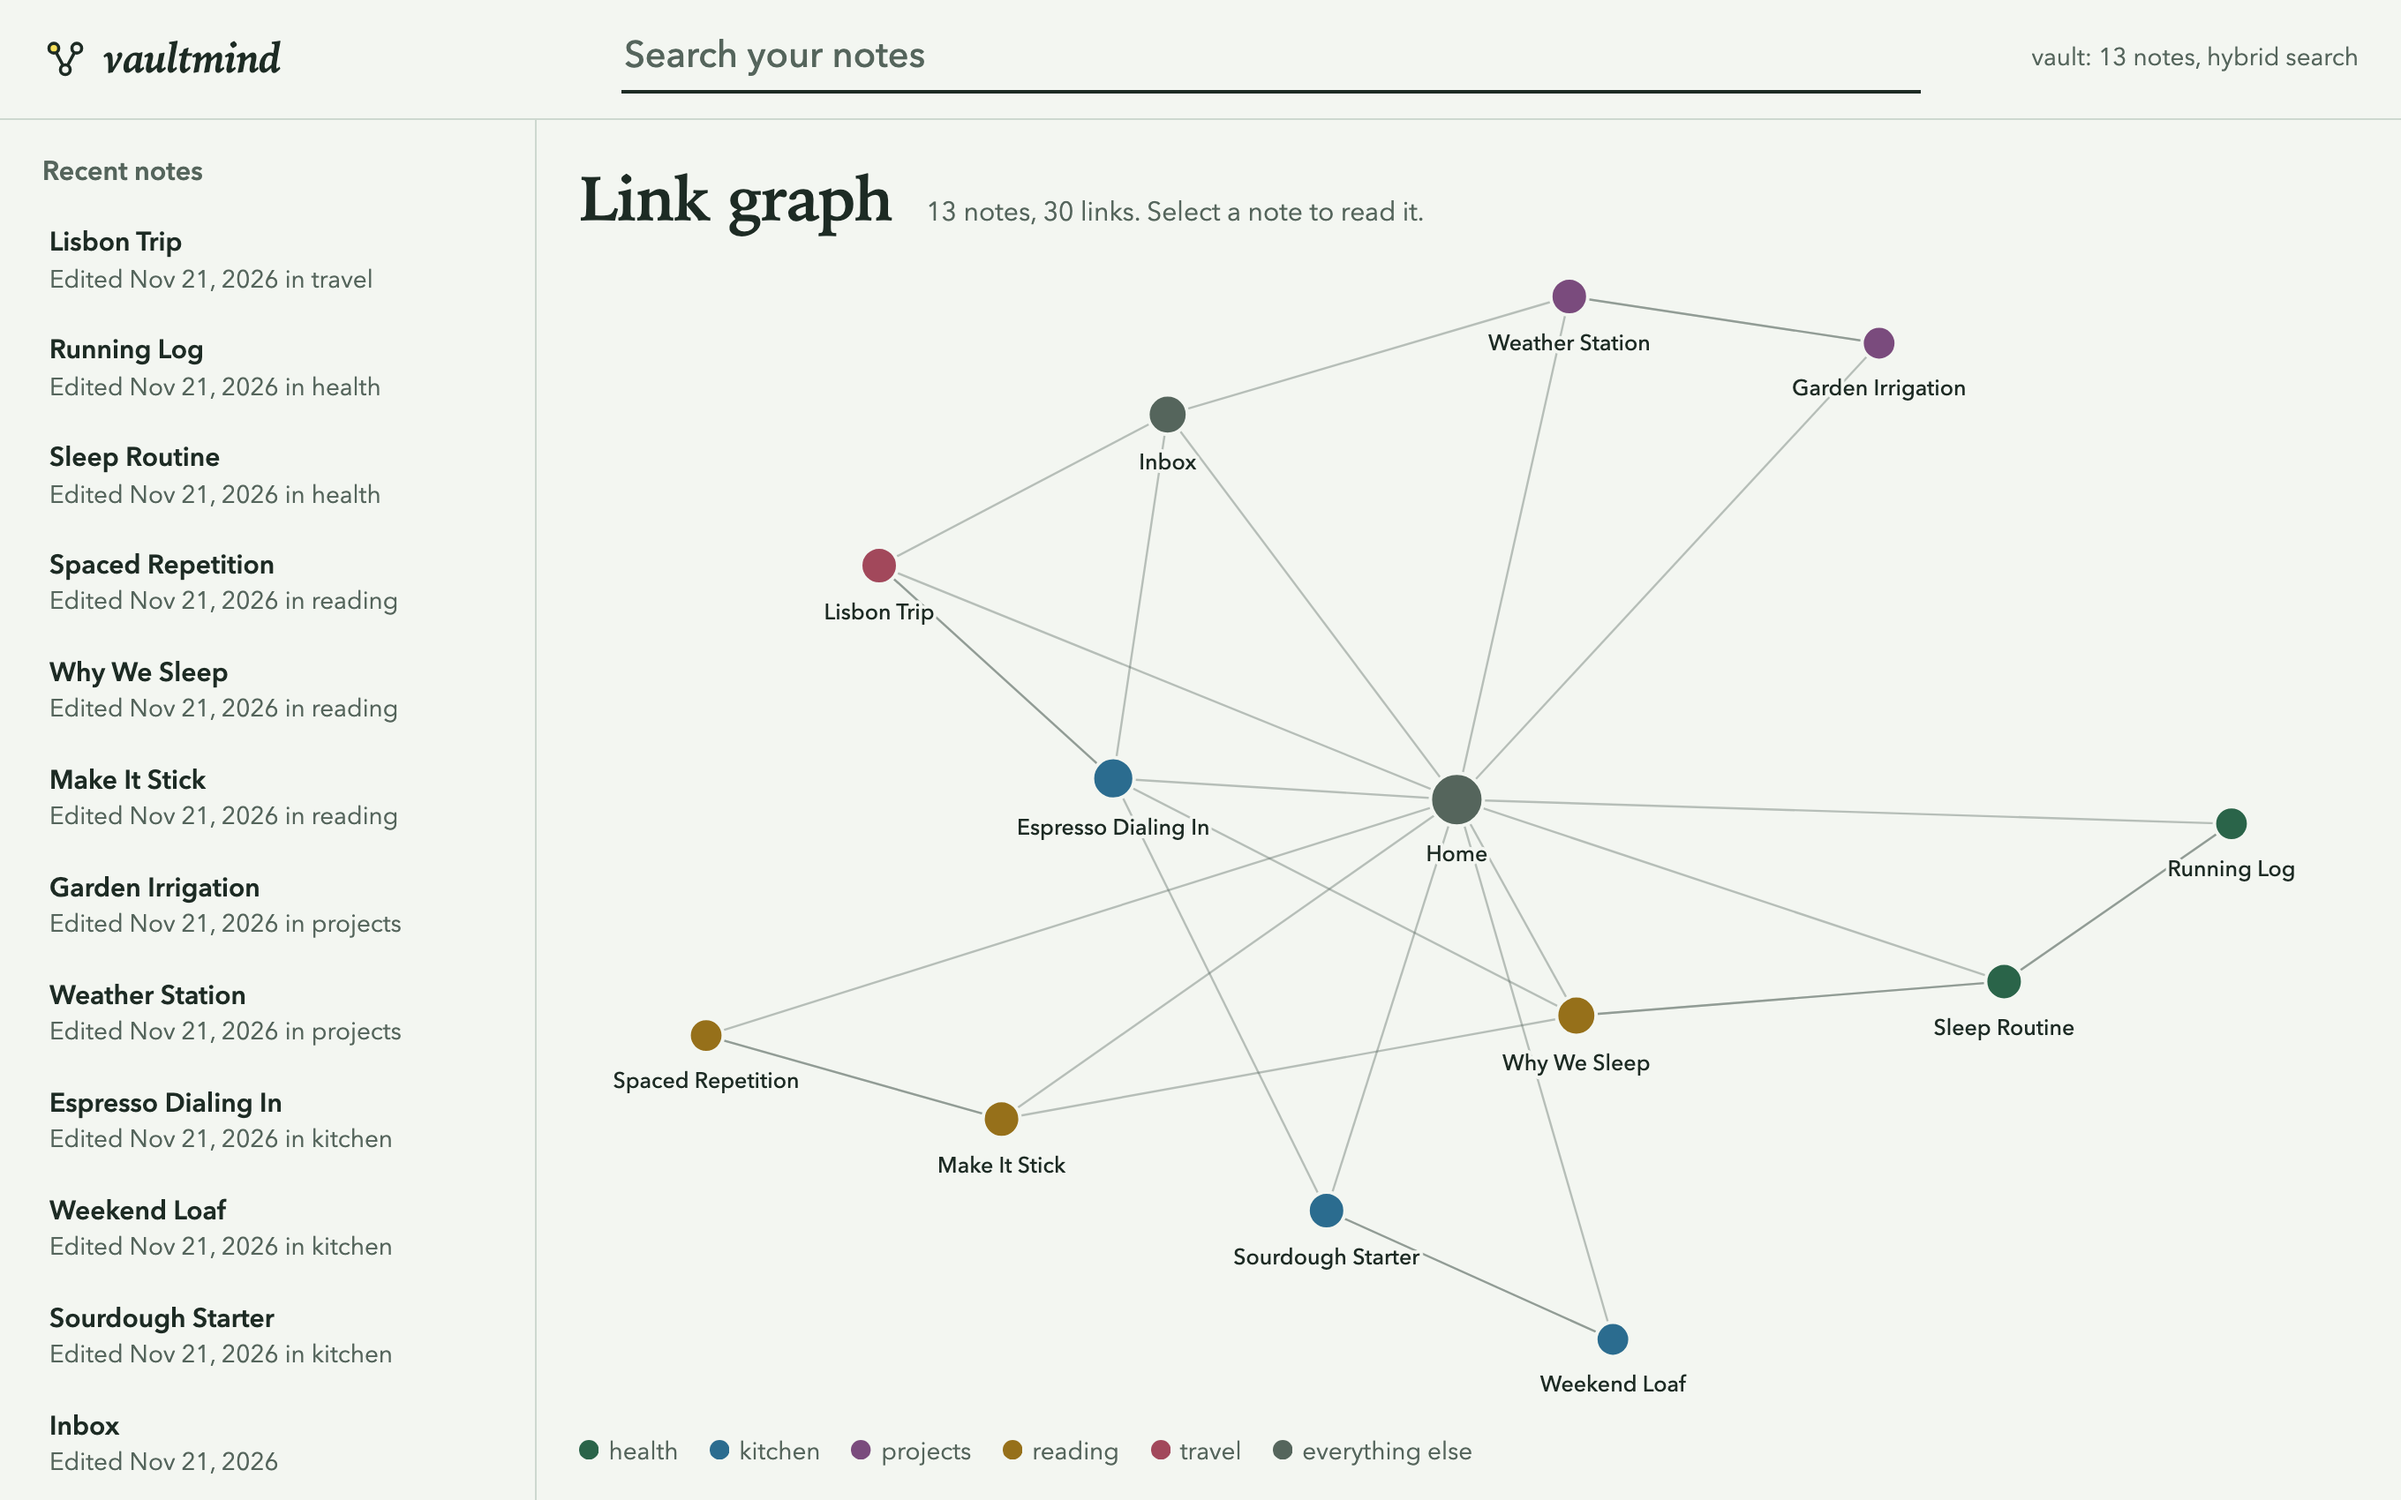
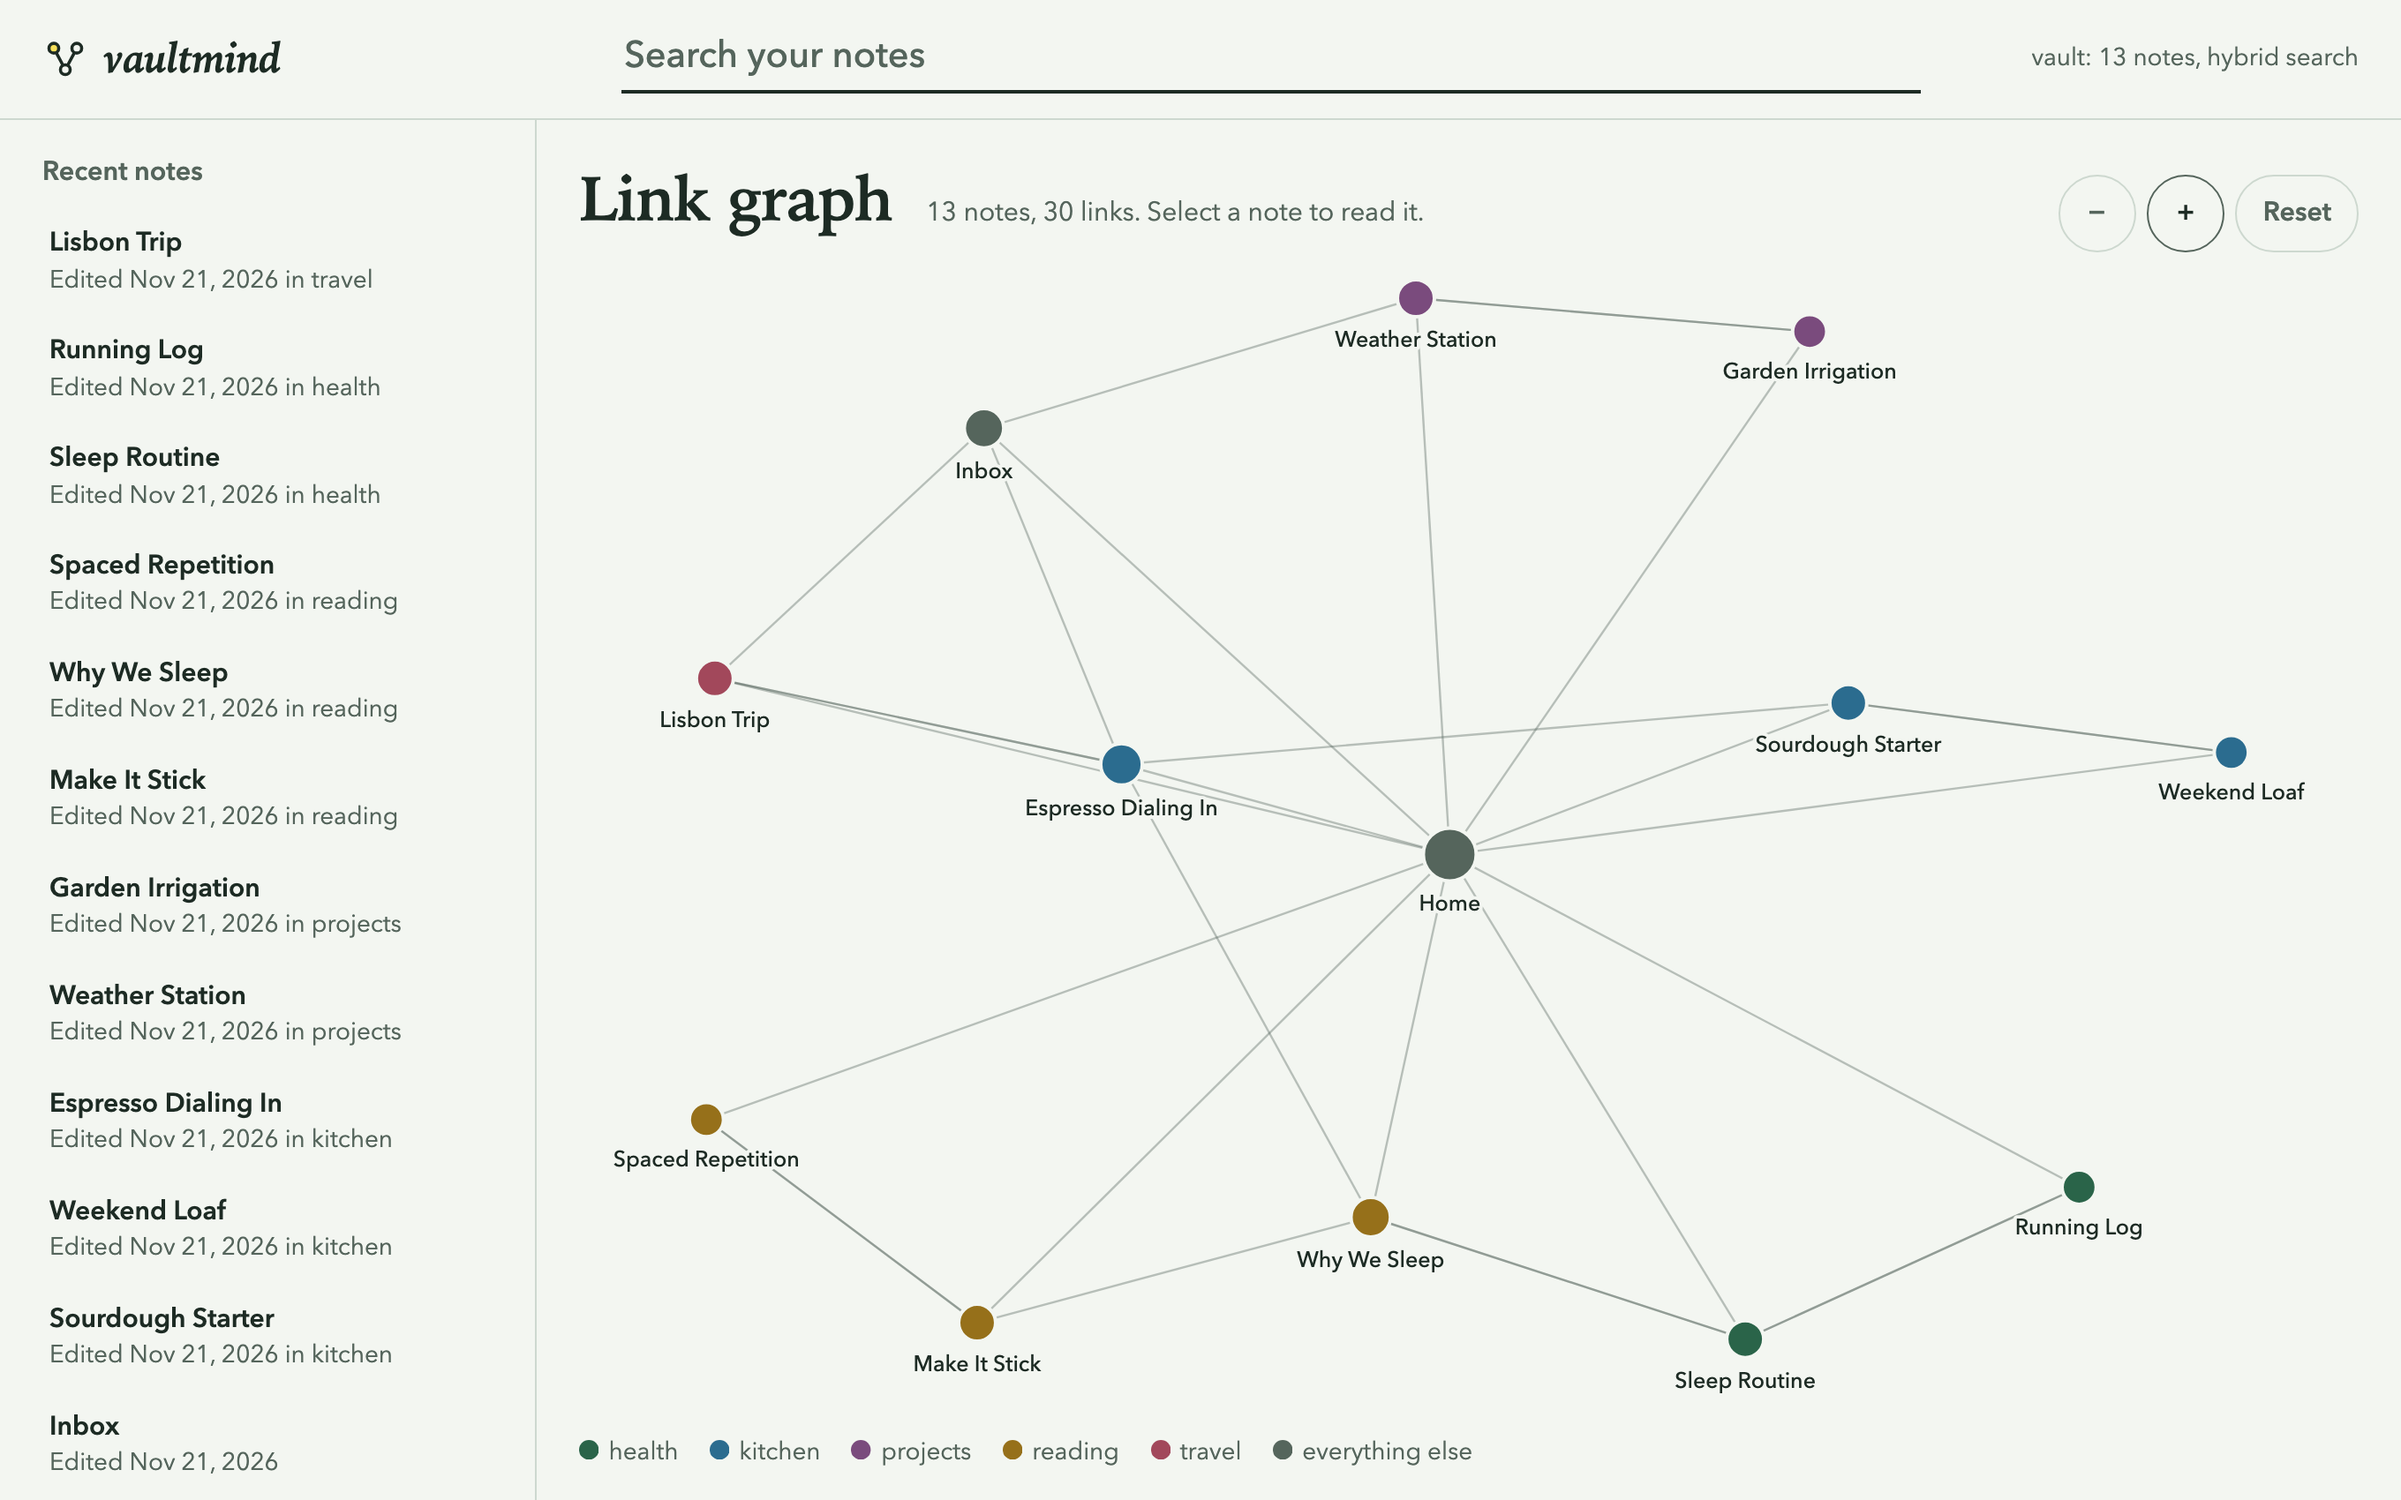
Retake README screenshots, add a phone screenshot, changelog for the design pass

diff --git a/scripts/screenshots.ts b/scripts/screenshots.ts
@@ -27,6 +27,16 @@ await dark.click("#list a");
 await dark.waitForSelector("#side .graph");
 await dark.mouse.move(700, 600);
 await dark.screenshot({ path: `${out}/note.png` });
+
+const phone = await browser.newPage({ viewport: { width: 390, height: 844 }, deviceScaleFactor: 2, colorScheme: "light" });
+phone.on("pageerror", (error) => errors.push(error.message));
+await phone.goto(base);
+await phone.waitForSelector(".graph circle");
+await phone.fill("#q", "sourdough");
+await phone.waitForSelector("#list mark");
+await phone.click("#list a");
+await phone.waitForSelector("#side .graph");
+await phone.screenshot({ path: `${out}/phone.png` });
 await browser.close();
 
 if (errors.length) {

diff --git a/README.md b/README.md
@@ -7,6 +7,8 @@ It indexes your notes into one SQLite file, searches them by keyword and by mean
 
 ![Search results, a note, and its connections](docs/screenshots/note.png)
 
+<img src="docs/screenshots/phone.png" width="300" alt="A note opened from search on a 390-pixel-wide phone screen">
+
 ## Quickstart
 
 You need Node.js 22.18 or newer (`node --version`) and git. The repository ships a small made-up vault to try things on.
@@ -69,7 +71,7 @@ The tools hand note text to the model as written. If your vault holds clipped we
 - **Understands Obsidian notes.** YAML frontmatter (`title`, `tags`, `aliases`), inline `#tags` including `#nested/tags`, `[[wikilinks]]` with `|alias` and `#heading`, `![[embeds]]`, and relative Markdown links. Links resolve to the note next to the linking note first, then by path, file name and alias. Titles, aliases, headings and tags are all searchable.
 - **Heading-aware chunks.** Each section is indexed with its heading path (`Sourdough Starter > Feeding schedule`), so a hit points at the part of the note that matched.
 - **Incremental indexing.** Only new and changed files are read again. Deleted files leave the index.
-- **Web UI.** Search as you type, a reading view, related notes with reasons, the notes linked to the current one, and the link graph of the whole vault. Light and dark, works on a phone, keyboard friendly (`/` focuses search, arrow keys move through results).
+- **Web UI.** Search as you type, a reading view, related notes with reasons, the notes linked to the current one, and the link graph of the whole vault, which zooms and pans (buttons, wheel, drag, pinch) and never draws one note name over another. Light and dark, works on a phone, keyboard friendly (`/` focuses search, arrow keys move through results).
 - **Ask your vault (optional).** With `ANTHROPIC_API_KEY` set, `vaultmind ask "..."` and the Ask button in the web UI answer a question from the best matching sections and cite them. Without a key the button does not appear and nothing else changes.
 
 ## How it works
@@ -127,7 +129,7 @@ Two things use the network, both optional:
 
 - `ask` has never run against the live Anthropic API (no key was available while building). Tests cover it with a stubbed client and with the real SDK talking HTTP to a local stand-in server, so whether the live API accepts the request exactly as sent is still unconfirmed.
 - The default embedding model, the stop-word list and the stemmer are English. Notes in other languages get keyword search with diacritic folding; `--model` accepts another model but none has been tried.
-- The link graph has no zoom or pan. It reads well up to a few hundred notes and turns into a dense cloud beyond that.
+- The link graph has zoom and pan but no filtering. Names that would collide stay hidden until you zoom in or hover; beyond a few hundred notes the unzoomed view is a dense cloud.
 - Symbolic links inside the vault are not followed, so a linked note or folder is not indexed.
 - Search returns one hit per note (its best section). Each ranking contributes its 100 best sections, at most three per note, so very broad queries are not exhaustive.
 - Developed on macOS. CI runs the unit and MCP tests and the built CLI on Linux (Node 22.18 and 24) and on Windows (Node 22); a manually started workflow runs the real embedding model on Linux, Windows and macOS. The browser tests run on Linux only, so the web UI has not been looked at in a browser on Windows.
@@ -137,7 +139,7 @@ Two things use the network, both optional:
 
 - Filter search by tag and folder
 - File watching instead of the 30-second rescan
-- Zoom, pan and filtering in the link graph
+- Filtering in the link graph
 - A multilingual embedding model option that is actually tested
 - Publish to npm so `npx vaultmind` works
 - A vector index for vaults far beyond 50,000 sections

diff --git a/CHANGELOG.md b/CHANGELOG.md
@@ -5,6 +5,18 @@ The format follows [Keep a Changelog](https://keepachangelog.com/en/1.1.0/) and 
 
 ## [Unreleased]
 
+### Design pass (2026-11-22)
+
+Looked at the running web UI at 1360, 900 and 390 px wide, light and dark, with the keyboard and with the server stopped.
+
+- Link graph zooms and pans: `−`, `+` and Reset buttons, the mouse wheel (only where the page itself does not scroll), drag, and two-finger pinch. Zooming spreads notes apart while circles and names keep their size. A drag that ends on a note does not open it; a note reached with Tab while zoomed in is brought into view.
+- Graph note names never overlap: best-connected notes are labelled first, a name that would cover another name or circle stays hidden until hover or zoom. The connections graph is drawn at its real column width so names stay 12.5 px.
+- Tablet widths (46 to 68 rem) keep the list beside the note, with connections below it; on a phone a note or answer opened from the list scrolls to the top of the screen.
+- States: "Opening your vault…" appears only if loading takes over 0.4 s; when the server stops answering the page says so and what to do; a `<noscript>` note.
+- The result count and hint are one live region; focus rings follow the rounded buttons; the search box's clear button is no longer system blue.
+- Search excerpts keep list items apart with `•` (they used to run together).
+- README screenshots retaken from the running app, plus a phone screenshot (`scripts/screenshots.ts` writes all three).
+
 Found by cloning the repository fresh, following the README literally, and reading the code as a reviewer.
 
 ### Fixed
@@ -26,7 +38,6 @@ Found by cloning the repository fresh, following the README literally, and readi
 
 - `ask` has still never run against the live Anthropic API (no key on the build machine). A new test sends it through the real SDK over HTTP to a local stand-in server (port 4108, `ASK_TEST_PORT` overrides), which covers the client wiring but not what the live API accepts.
 - English-only stop words, stemming and default embedding model.
-- No zoom or pan in the link graph.
 - The web UI has not been opened in a browser on Windows (its API tests do run there).
 - Symbolic links inside a vault are skipped.
 
@@ -63,4 +74,4 @@ First release.
 - `src/web.ts` exports `handle(vault, Request)`; test the API through it instead of opening a port. `e2e/ui.test.ts` starts a real server on port 4107 (`E2E_PORT` overrides).
 - Screenshots: `node src/cli.ts serve --vault examples/vault`, then `node scripts/screenshots.ts`.
 - Unit tests never download the model; `test/helpers.ts` has a hashing stand-in. To try the real model, run `node src/cli.ts index --vault examples/vault`.
-- Next steps, in rough order of value: tag/folder filter for `search_notes` and the UI, file watching, graph zoom, a tested multilingual model, npm publishing.
+- Next steps, in rough order of value: tag/folder filter for `search_notes` and the UI, file watching, graph filtering, a tested multilingual model, npm publishing.
